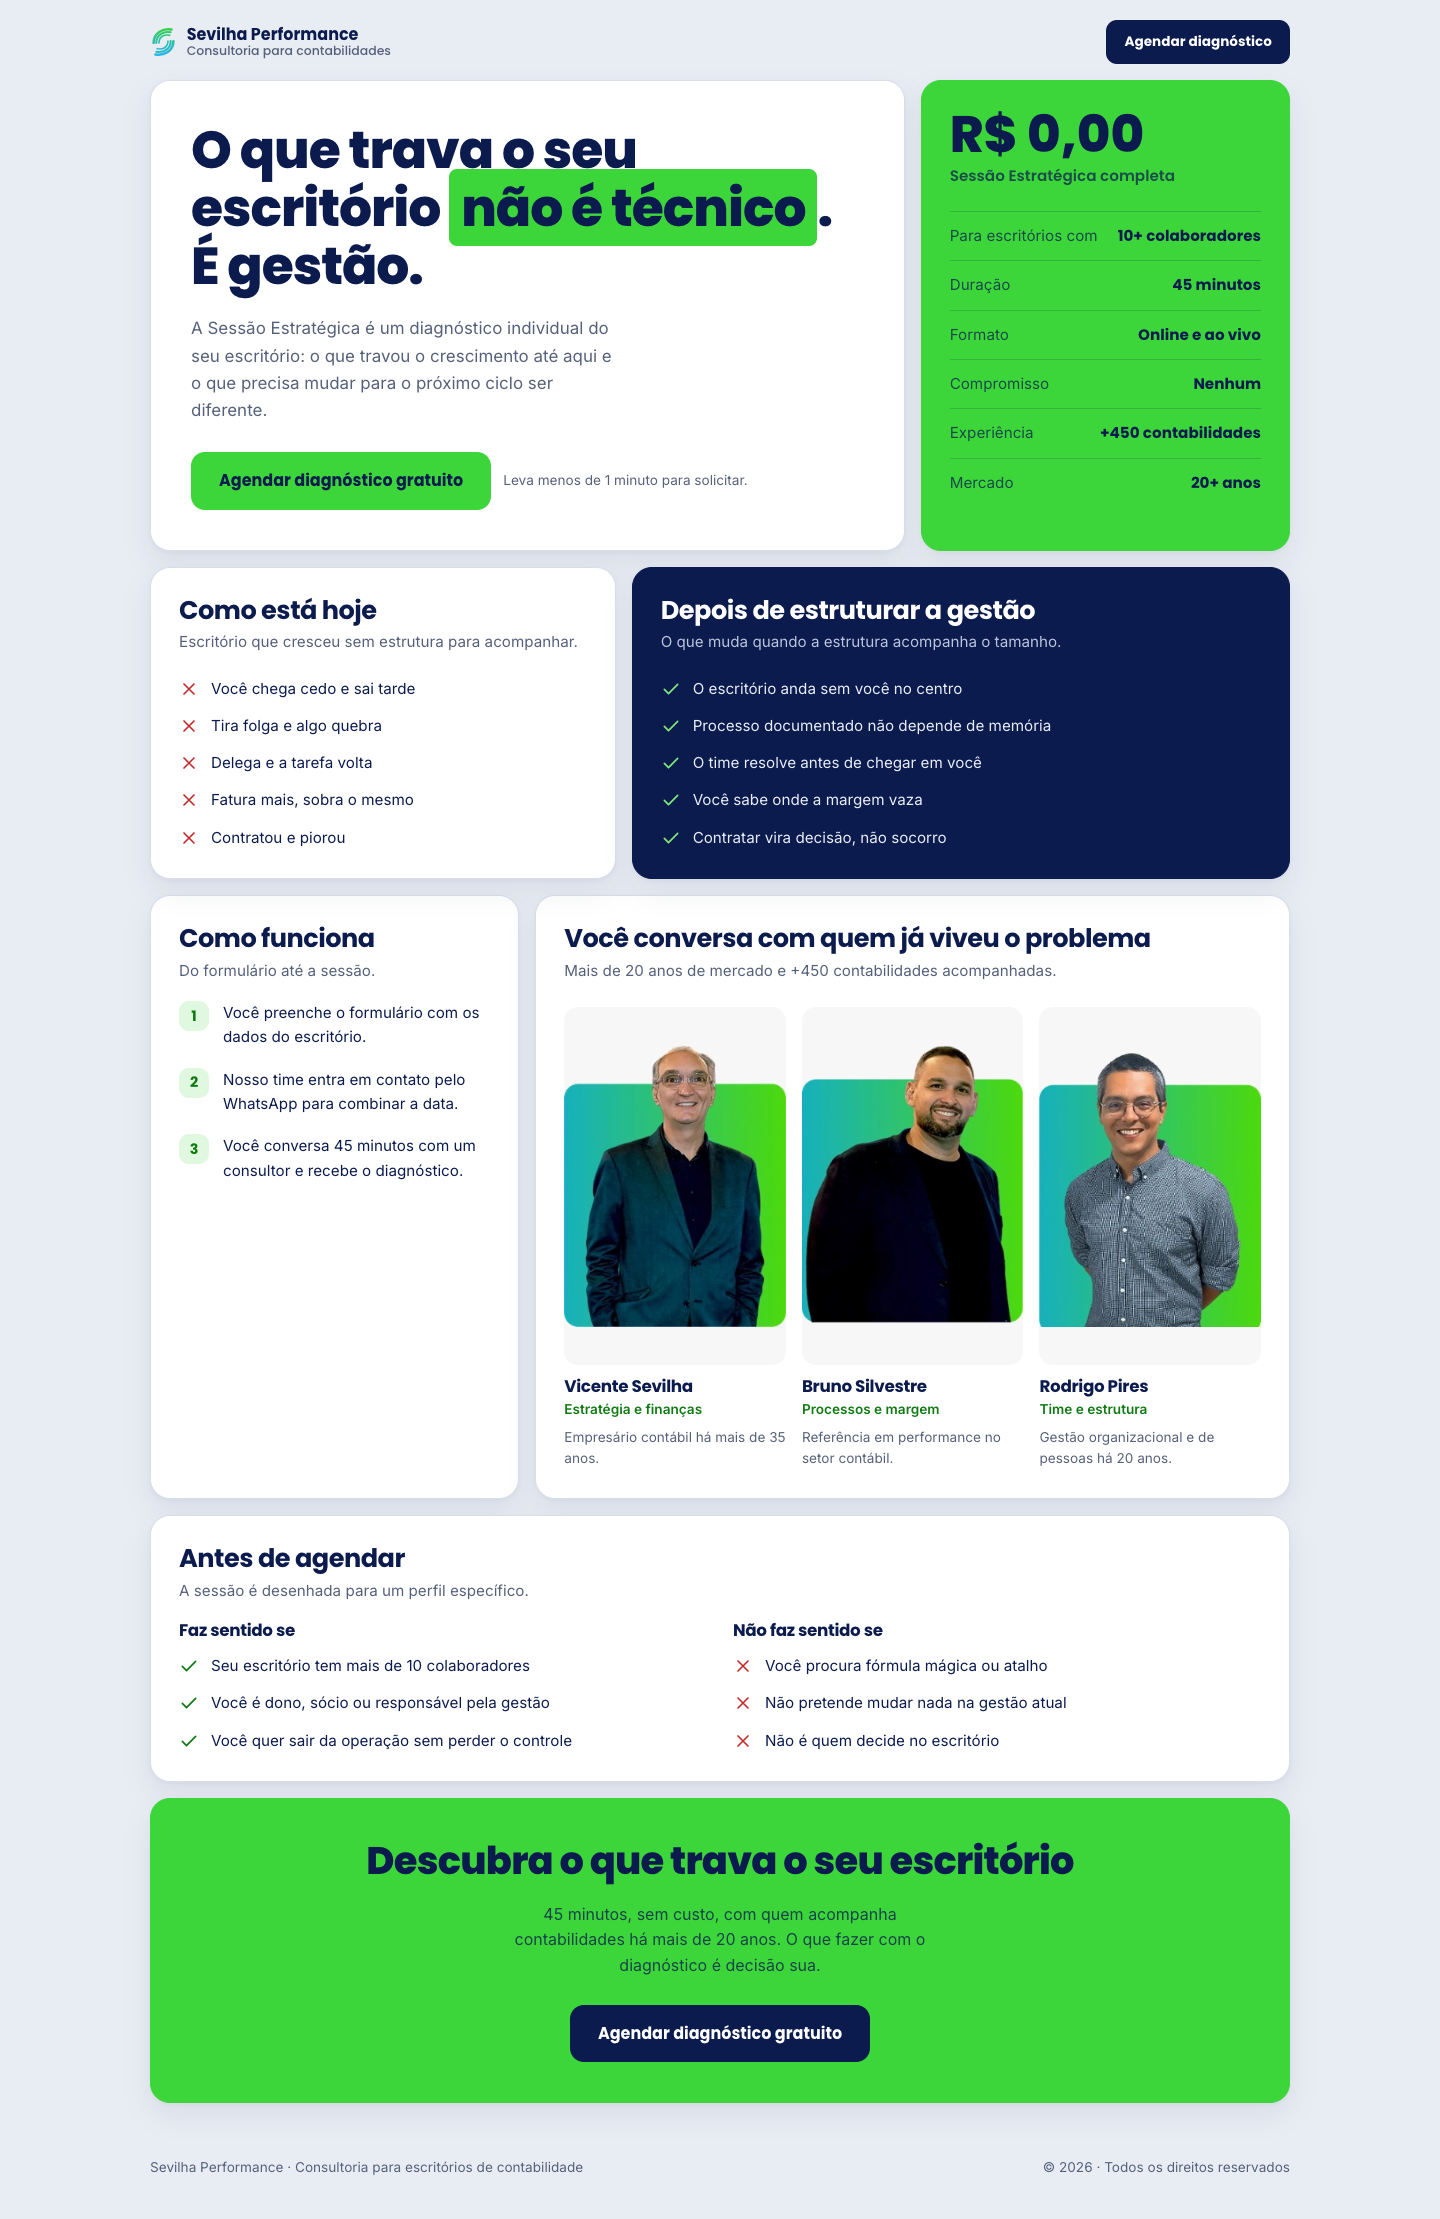
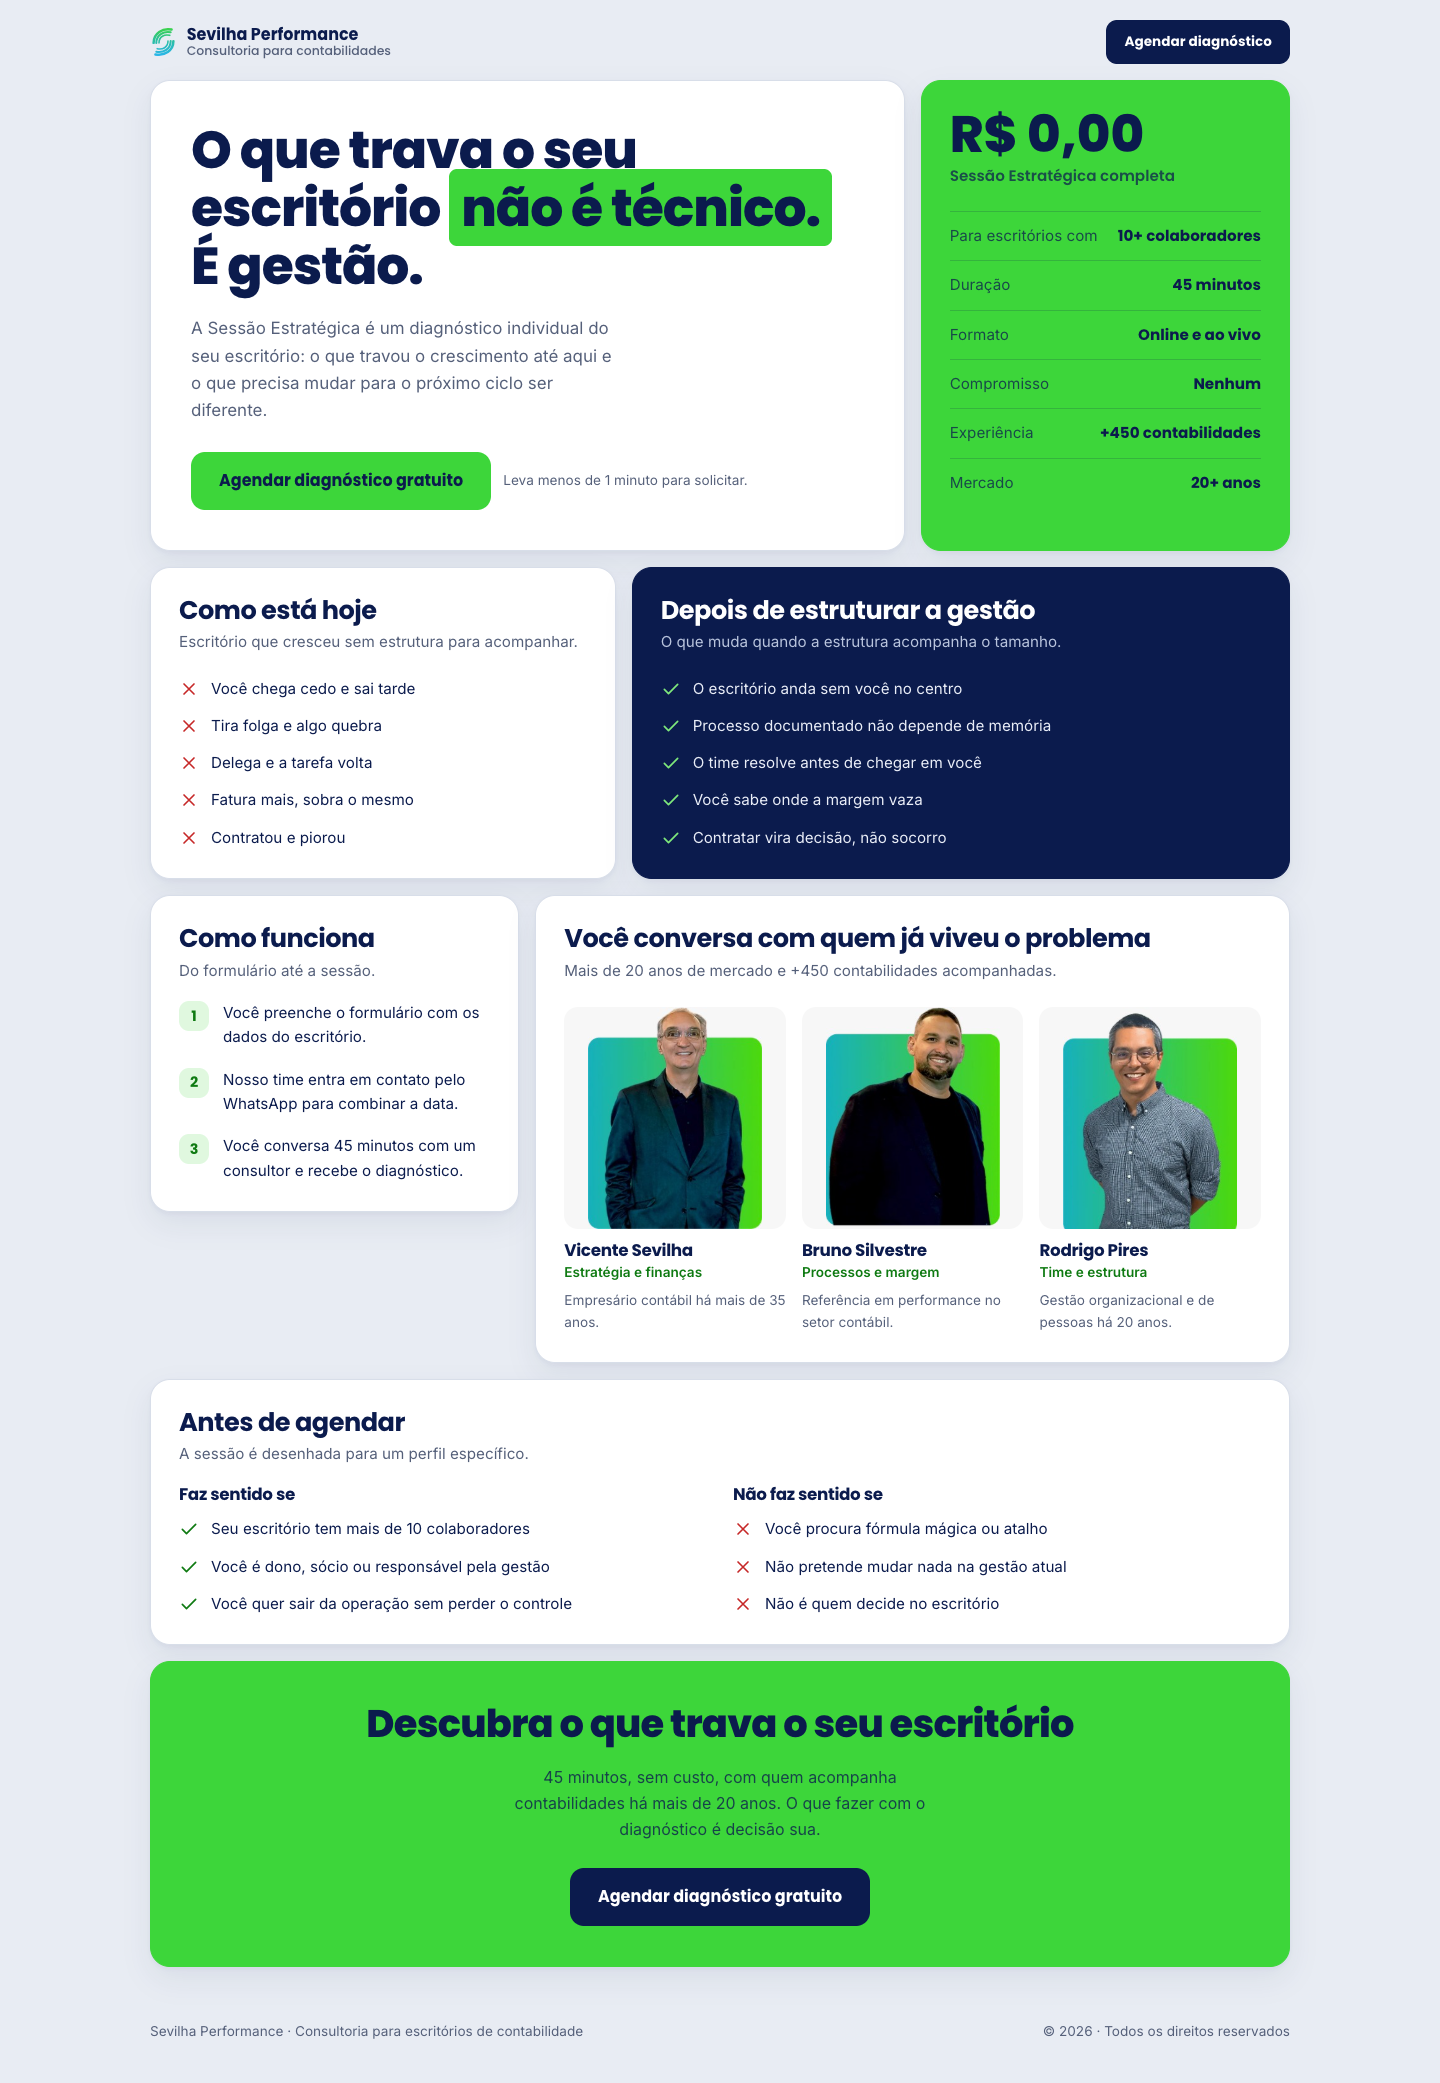
v2: retrato com aspect-ratio correto no celular, card dos passos sem vazio, ponto dentro da marca; DESIGN.md

Changed region(s): [[0.0938, 0.0, 0.9062, 0.9674]]

diff --git a/mentoria-2/index.html b/mentoria-2/index.html
@@ -168,6 +168,9 @@
     /* ── Bloco 5: como funciona ─────────────────────────── */
     .steps { list-style: none; counter-reset: s; display: grid; gap: 18px; }
     .steps li { counter-increment: s; display: grid; grid-template-columns: 30px 1fr; gap: 14px; font-size: .95rem; }
+    /* Três passos ao lado de três retratos: esticar o card curto até a altura
+       do vizinho deixaria um terço dele vazio. O card para onde o texto para. */
+    .steps-cell { align-self: start; }
     .steps li::before {
       content: counter(s); width: 30px; height: 30px; border-radius: 10px;
       background: rgba(61,214,58,.16); color: var(--green-ink);
@@ -180,7 +183,9 @@
     .people { display: grid; grid-template-columns: repeat(3, 1fr); gap: var(--gap); margin-top: 6px; }
     .person { display: grid; gap: 12px; }
     .person img {
-      width: 100%; aspect-ratio: 1 / 1; border-radius: 14px; object-fit: contain;
+      /* height:auto é obrigatório: sem ele o atributo height="358" do HTML vence
+         o aspect-ratio e o retrato vira uma faixa vazia de 358px no celular. */
+      width: 100%; height: auto; aspect-ratio: 1 / 1; border-radius: 14px; object-fit: contain;
       background: #f7f7f7; display: block;
     }
     .person h3 { font-size: 1.05rem; }
@@ -335,7 +340,7 @@
 
     <!-- 1 · A tese -->
     <section class="cell thesis c8">
-      <h1>O que trava o seu escritório <span class="mark">não é técnico</span>. É gestão.</h1>
+      <h1>O que trava o seu escritório <span class="mark">não é técnico.</span> É gestão.</h1>
       <p>
         A Sessão Estratégica é um diagnóstico individual do seu escritório: o que travou
         o crescimento até aqui e o que precisa mudar para o próximo ciclo ser diferente.
@@ -386,7 +391,7 @@
     </section>
 
     <!-- 5 · Como funciona -->
-    <section class="cell c4">
+    <section class="cell c4 steps-cell">
       <h2>Como funciona</h2>
       <p class="sub">Do formulário até a sessão.</p>
       <ol class="steps">

diff --git a/DESIGN.md b/DESIGN.md
@@ -1,0 +1,68 @@
+# DESIGN.md — Sevilha Performance
+
+Mundo visual das landing pages. O que está aqui é o que já está no código; quando
+página e documento discordarem, a página vence e este arquivo se atualiza.
+
+## Superfícies
+
+| Página | Modo | Layout |
+|---|---|---|
+| `/mentoria` (v1) | Persuade | Pilha vertical de seções |
+| `/mentoria-2` (v2) | Persuade | Bento grid de 12 colunas |
+
+As duas rodam em teste A/B por `/diagnostico`, com cookie `_sp_variant_se`.
+
+## Tokens
+
+```
+--navy      #0b1b4d   texto, campos escuros, botão de ação secundária
+--green     #3dd63a   marca, campo verde, botão principal
+--green-ink #0f7a12   verde legível sobre branco (contraste; o --green não passa)
+--ink       #12172b   corpo
+--muted     #5a6178   apoio
+--chao      #e9edf6   fundo cinza-azulado da página
+```
+
+Vermelho de erro e de item negativo: `#c62828`. Cantos: 20px nos cartões, 14px em
+imagem, 8px na marca da headline.
+
+## Tipografia
+
+Poppins 700/800 para peso (headings, números, botões), Inter para leitura. A
+escala precisa ser lida como escala: `h1` em `clamp(2.15rem, 4.1vw, 3.25rem)`,
+`h2` 1.5rem, `h3` 1.05rem, corpo 1rem, apoio .85rem. Não introduzir tamanho
+intermediário só para caber texto — a v2 já teve oito tamanhos entre 12,5 e 17px
+e o olho lia tudo como um bloco só.
+
+## Bento (v2)
+
+Grade de 12 colunas; a largura da célula é o argumento. Tese em `c8`, oferta em
+`c4` verde, comparação em `c5`/`c7`, passos em `c4`, consultores em `c8`, perfil e
+fechamento em `c12`. Abaixo de 1000px tudo vira `span 12`.
+
+Cartão que ficaria com um terço vazio ao lado de um vizinho alto recebe
+`align-self: start` — ver `.steps-cell`.
+
+## Movimento
+
+Entrada só **adiciona**: o estado padrão é visível e a animação é declarada
+dentro de `@media (prefers-reduced-motion: no-preference)`. Nunca `opacity: 0`
+esperando JS — na v2 isso deixou quatro blocos invisíveis e gerou 41 falsos
+positivos de contraste no axe.
+
+## Regras que já custaram caro
+
+- **Eyebrow/kicker acima de heading é proibido.** Qualificador de público vai
+  para dentro da tabela da oferta, onde é lido como critério.
+- **Nada de caixa alta em texto de corpo.** Só na tag do modal.
+- Imagem com atributo `height` precisa de `height: auto` no CSS, senão o
+  atributo vence o `aspect-ratio` e o retrato vira faixa vazia no celular.
+- A cadeia flex do modal (`#form-wrapper → form → .modal-body/.modal-foot`)
+  precisa de `min-height: 0`, senão o botão de enviar sai da tela no celular.
+- Prova social: só o que existe. Ver PRODUCT.md — não há depoimento nem case.
+
+## Verificação
+
+Uma rodada em lote, 1440×900 e 390×844: `detect.mjs`, axe-core, console,
+Web Vitals, overflow horizontal e o modal com o roteamento sub-10 aberto.
+Capturas em `.impeccable/review/`.
